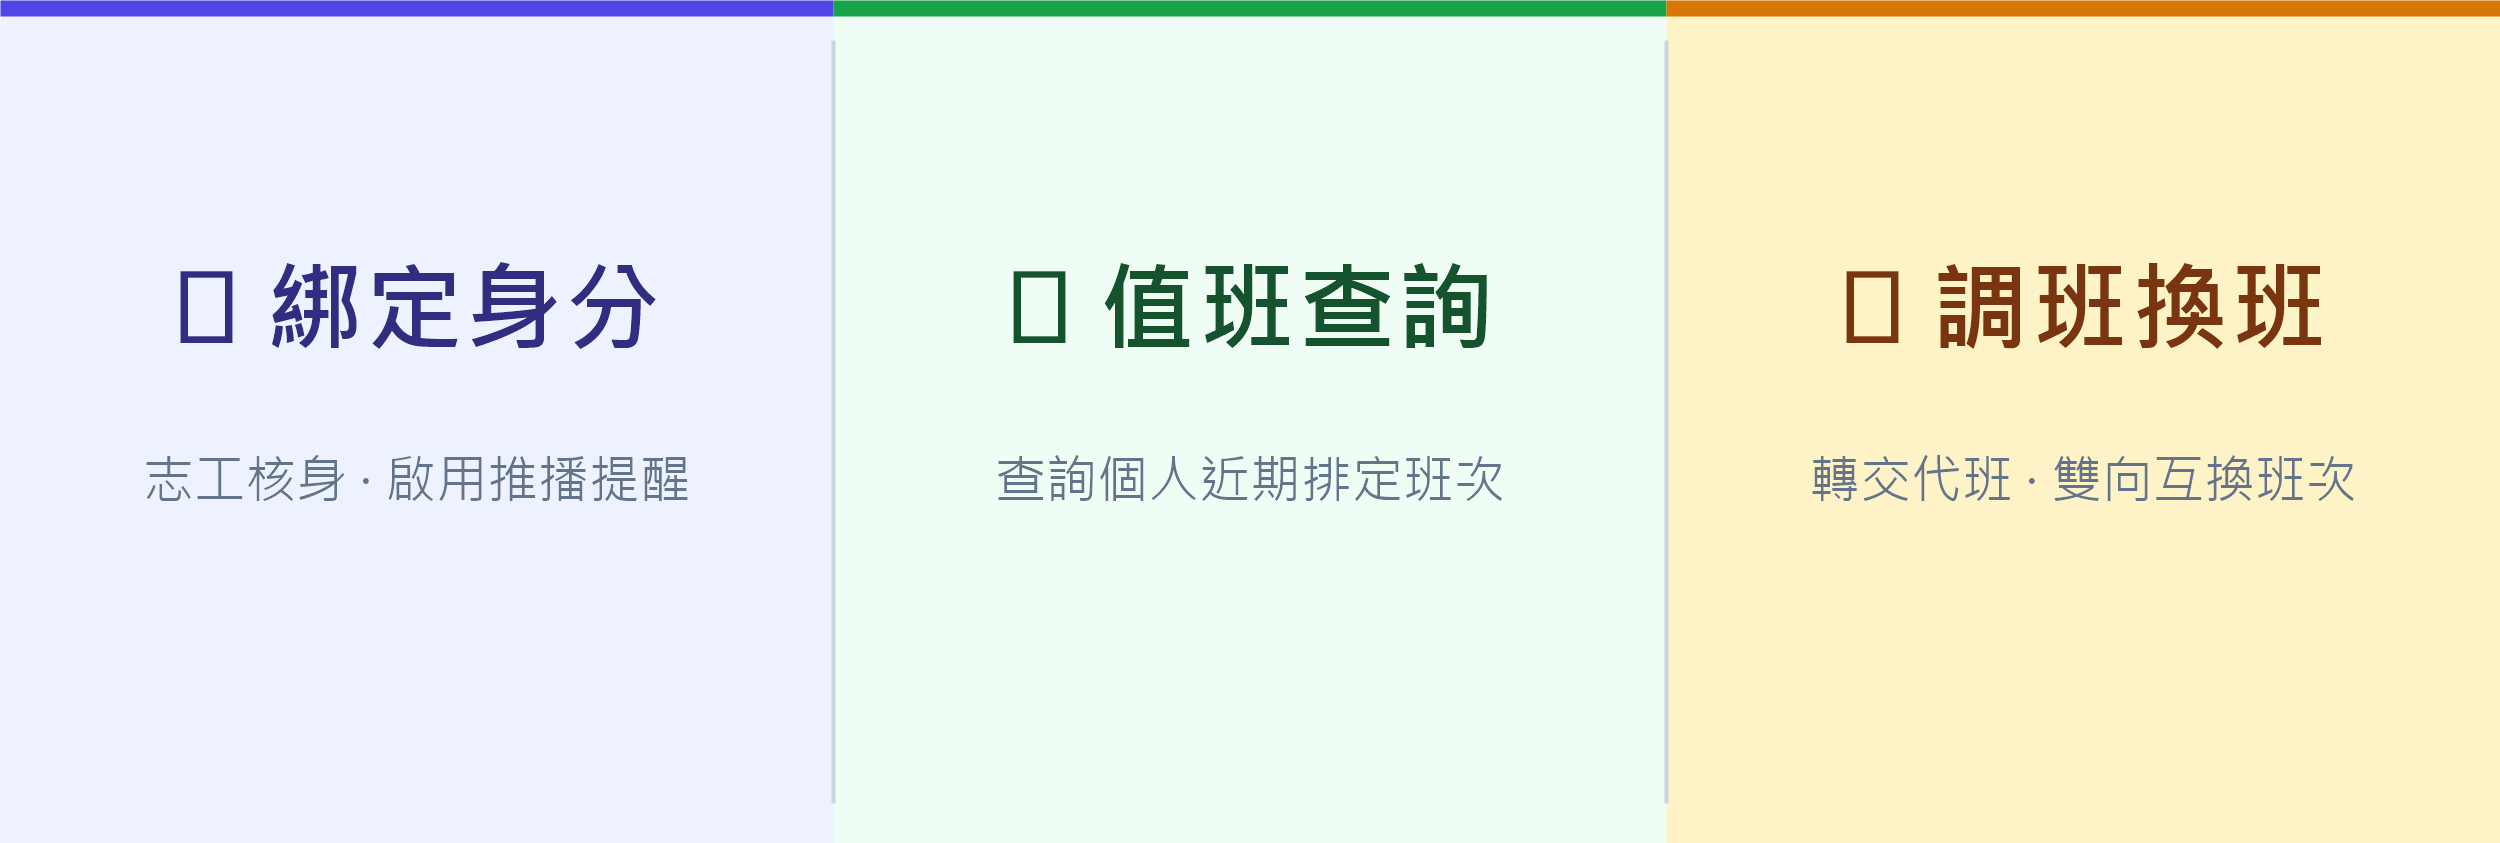
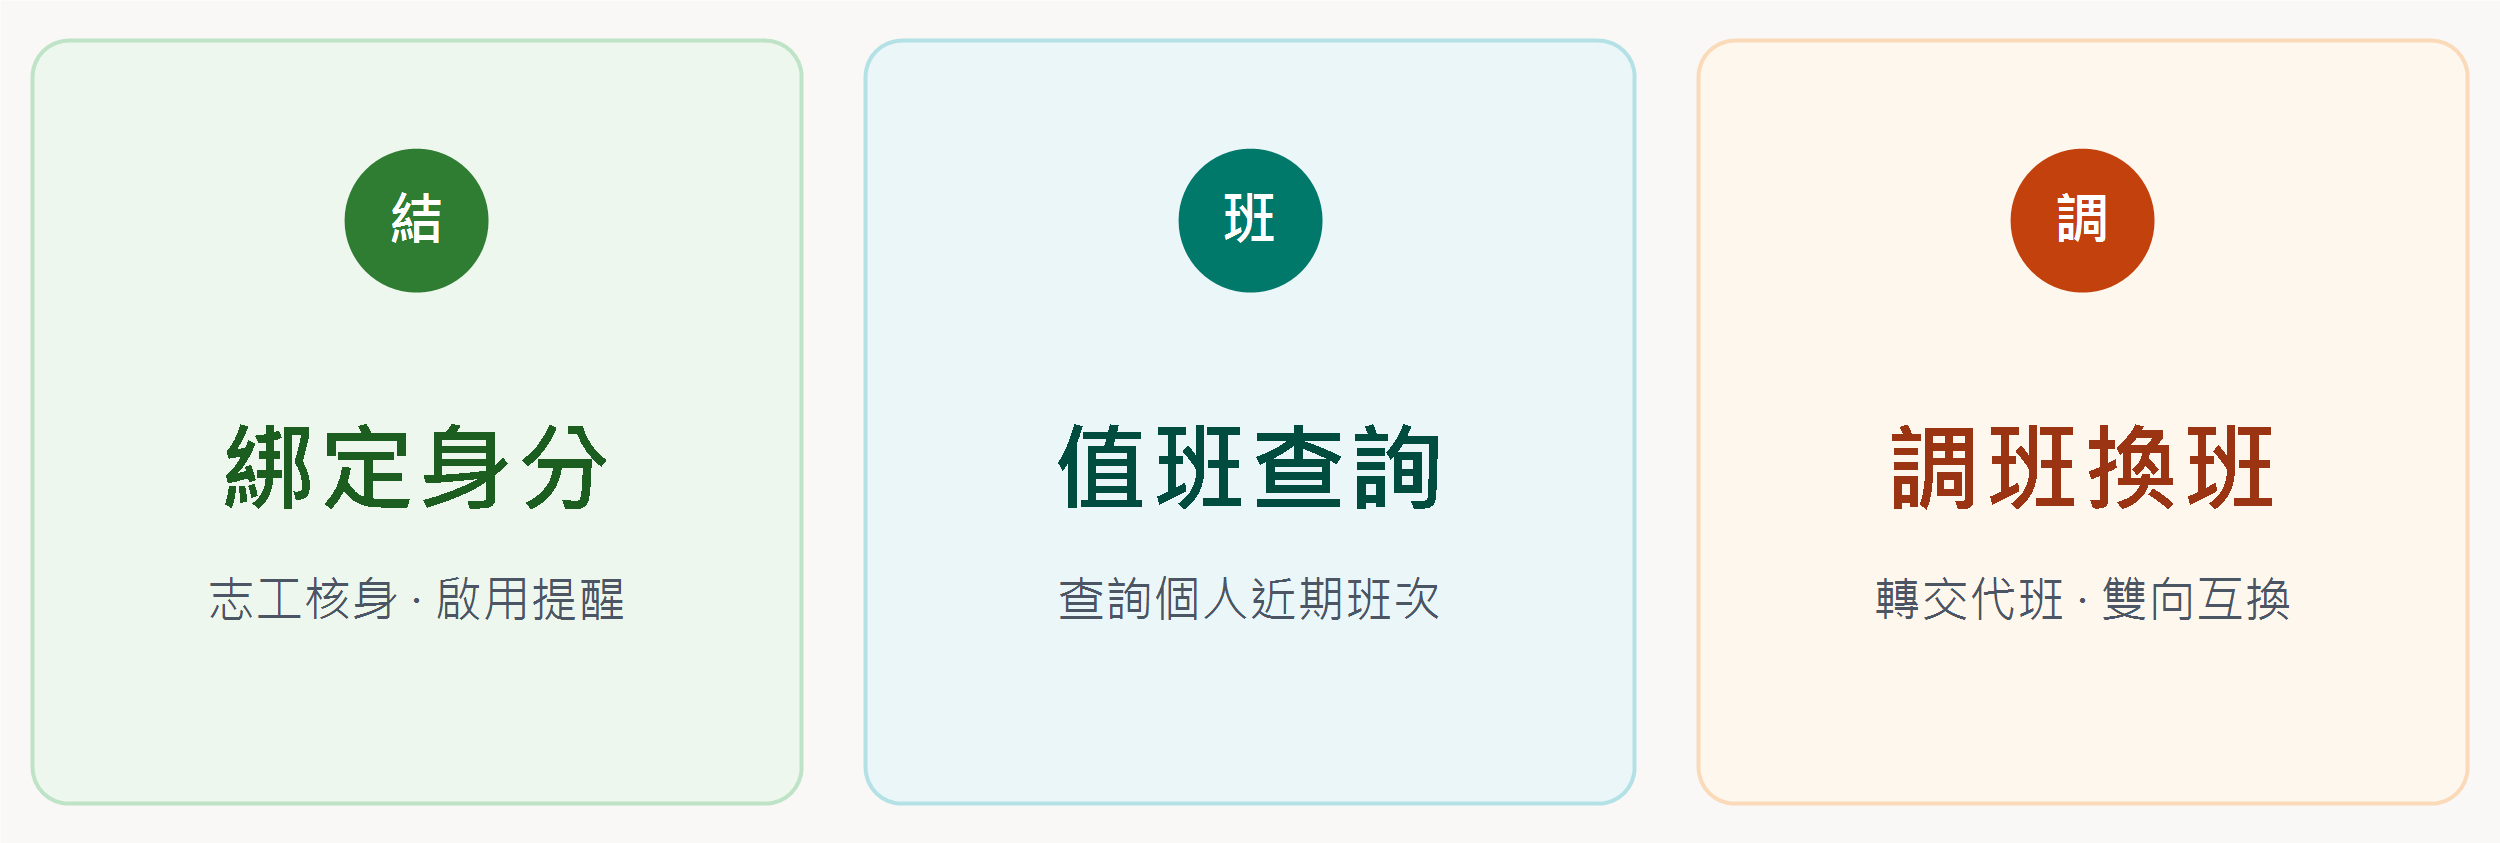
fix: 修正 LINE 調班 carousel contents 結構與全套溫馨慈濟美學 Rich Menu

diff --git a/functions/shiftSwap.js b/functions/shiftSwap.js
@@ -609,7 +609,7 @@ async function expireStaleSwaps() {
 function buildSwapConfirmFlexMessage(swap) {
   const isTransfer = swap.swapType === 'transfer';
   const title = isTransfer ? '📋 志工轉班確認請求' : '🔄 志工雙向換班請求';
-  const themeColor = isTransfer ? '#2563eb' : '#d97706';
+  const themeColor = isTransfer ? '#1b5e20' : '#854d0e';
 
   const contents = [
     {
@@ -617,7 +617,7 @@ function buildSwapConfirmFlexMessage(swap) {
       text: `${swap.requesterName} 師兄/師姊 向您發起${isTransfer ? '轉班（代班）' : '換班'}請求：`,
       wrap: true,
       size: 'sm',
-      color: '#333333'
+      color: '#27272a'
     },
     { type: 'separator', margin: 'md' }
   ];
@@ -629,7 +629,7 @@ function buildSwapConfirmFlexMessage(swap) {
       margin: 'md',
       spacing: 'xs',
       contents: [
-        { type: 'text', text: '【轉出班次（請您代班）】', weight: 'bold', size: 'xs', color: themeColor },
+        { type: 'text', text: '【轉出班次（請您代班）】', weight: 'bold', size: 'xs', color: '#15803d' },
         { type: 'text', text: `📍 道場：${swap.requesterLocation}`, size: 'sm' },
         { type: 'text', text: `📅 日期：${swap.requesterDutyDate}`, size: 'sm', weight: 'bold' },
         { type: 'text', text: `⏰ 班次：${swap.requesterShiftLabel} (${swap.requesterTimeRange})`, size: 'sm' }
@@ -643,9 +643,9 @@ function buildSwapConfirmFlexMessage(swap) {
         margin: 'md',
         spacing: 'xs',
         contents: [
-          { type: 'text', text: '【您將接手的班次】', weight: 'bold', size: 'xs', color: '#16a34a' },
+          { type: 'text', text: '【您將接手的班次】', weight: 'bold', size: 'xs', color: '#15803d' },
           { type: 'text', text: `📍 ${swap.requesterLocation} (${swap.requesterDutyDate})`, size: 'sm', weight: 'bold' },
-          { type: 'text', text: `⏰ ${swap.requesterShiftLabel} ${swap.requesterTimeRange}`, size: 'xs', color: '#666666' }
+          { type: 'text', text: `⏰ ${swap.requesterShiftLabel} ${swap.requesterTimeRange}`, size: 'xs', color: '#52525b' }
         ]
       },
       {
@@ -654,9 +654,9 @@ function buildSwapConfirmFlexMessage(swap) {
         margin: 'md',
         spacing: 'xs',
         contents: [
-          { type: 'text', text: '【您讓給對方的班次】', weight: 'bold', size: 'xs', color: '#ea580c' },
+          { type: 'text', text: '【您讓給對方的班次】', weight: 'bold', size: 'xs', color: '#c2410c' },
           { type: 'text', text: `📍 ${swap.targetLocation} (${swap.targetDutyDate})`, size: 'sm', weight: 'bold' },
-          { type: 'text', text: `⏰ ${swap.targetShiftLabel} ${swap.targetTimeRange}`, size: 'xs', color: '#666666' }
+          { type: 'text', text: `⏰ ${swap.targetShiftLabel} ${swap.targetTimeRange}`, size: 'xs', color: '#52525b' }
         ]
       }
     );
@@ -747,18 +747,18 @@ function buildDutySelectionFlexMessage(duties, memberName) {
         type: 'box',
         layout: 'vertical',
         contents: [
-          { type: 'text', text: `🗓 ${duty.dutyDate}`, weight: 'bold', size: 'md', color: '#1e3a8a' },
-          { type: 'text', text: `${duty.location} · ${duty.shiftLabel}`, size: 'xs', color: '#475569' }
+          { type: 'text', text: `🗓 ${duty.dutyDate}`, weight: 'bold', size: 'md', color: '#166534' },
+          { type: 'text', text: `${duty.location} · ${duty.shiftLabel}`, size: 'xs', color: '#4b5563' }
         ],
-        backgroundColor: '#eff6ff'
+        backgroundColor: '#f0fdf4'
       },
       body: {
         type: 'box',
         layout: 'vertical',
         spacing: 'sm',
         contents: [
-          { type: 'text', text: `• 時段：${timeStr}`, size: 'xs', color: '#334155' },
-          { type: 'text', text: `• 性別限制：${duty.genderType || '不限'}眾`, size: 'xs', color: '#64748b' },
+          { type: 'text', text: `• 時段：${timeStr}`, size: 'xs', color: '#374151' },
+          { type: 'text', text: `• 性別限制：${duty.genderType || '不限'}眾`, size: 'xs', color: '#6b7280' },
           { type: 'text', text: `• 截止期限：${deadlineStr}`, size: 'xs', color: '#dc2626' }
         ]
       },
@@ -776,7 +776,7 @@ function buildDutySelectionFlexMessage(duties, memberName) {
               displayText: `我要為 ${duty.dutyDate} ${duty.shiftLabel} 申請轉班`
             },
             style: 'primary',
-            color: '#2563eb',
+            color: '#15803d',
             height: 'sm'
           },
           {
@@ -800,13 +800,13 @@ function buildDutySelectionFlexMessage(duties, memberName) {
     altText: `【值班調班】請選擇您要調整的班次`,
     contents: {
       type: 'carousel',
-      bubbles: bubbles
+      contents: bubbles
     }
   };
 }
 
 /**
- * 歡迎加入與功能總覽 Flex Message
+ * 歡迎加入與功能總覽 Flex Message (溫馨慈濟人文風)
  */
 function buildWelcomeFlexMessage() {
   return {
@@ -818,10 +818,10 @@ function buildWelcomeFlexMessage() {
         type: 'box',
         layout: 'vertical',
         contents: [
-          { type: 'text', text: '🌸 慈濟小祕書', weight: 'bold', size: 'lg', color: '#1e3a8a' },
-          { type: 'text', text: '道場值班 · 活動 · 會議 智慧推播', size: 'xs', color: '#64748b' }
+          { type: 'text', text: '🌸 慈濟小祕書', weight: 'bold', size: 'lg', color: '#166534' },
+          { type: 'text', text: '道場值班 · 活動 · 會議 智慧推播', size: 'xs', color: '#4b5563' }
         ],
-        backgroundColor: '#f1f5f9'
+        backgroundColor: '#f0fdf4'
       },
       body: {
         type: 'box',
@@ -833,21 +833,21 @@ function buildWelcomeFlexMessage() {
             text: '阿彌陀佛！歡迎加入慈濟小祕書。請先完成志工身分綁定，即可享有完整推播與調班服務：',
             wrap: true,
             size: 'sm',
-            color: '#334155'
+            color: '#374151'
           },
           {
             type: 'box',
             layout: 'vertical',
             spacing: 'xs',
-            backgroundColor: '#f8fafc',
+            backgroundColor: '#fbf8f3',
             paddingAll: 'md',
             cornerRadius: 'md',
             contents: [
-              { type: 'text', text: '🔔 每日定時推播提醒：', weight: 'bold', size: 'xs', color: '#0f172a' },
-              { type: 'text', text: '• 08:00 明日道場值班提醒', size: 'xs', color: '#475569' },
-              { type: 'text', text: '• 08:30 明日活動行前提醒', size: 'xs', color: '#475569' },
-              { type: 'text', text: '• 09:00 明日會議出席提醒', size: 'xs', color: '#475569' },
-              { type: 'text', text: '• 🔄 自助調班 / 換班推播確認', size: 'xs', color: '#2563eb' }
+              { type: 'text', text: '🔔 每日定時推播提醒：', weight: 'bold', size: 'xs', color: '#166534' },
+              { type: 'text', text: '• 08:00 明日道場值班提醒', size: 'xs', color: '#4b5563' },
+              { type: 'text', text: '• 08:30 明日活動行前提醒', size: 'xs', color: '#4b5563' },
+              { type: 'text', text: '• 09:00 明日會議出席提醒', size: 'xs', color: '#4b5563' },
+              { type: 'text', text: '• 🔄 自助調班 / 雙向換班推播確認', size: 'xs', color: '#15803d' }
             ]
           }
         ]
@@ -865,7 +865,7 @@ function buildWelcomeFlexMessage() {
               text: '綁定'
             },
             style: 'primary',
-            color: '#2563eb',
+            color: '#166534',
             height: 'sm'
           },
           {
@@ -910,6 +910,7 @@ function buildWelcomeFlexMessage() {
     }
   };
 }
+
 
 module.exports = {
   SHIFT_TIMES,
